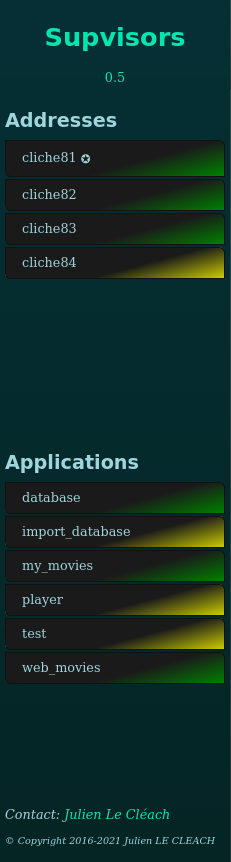
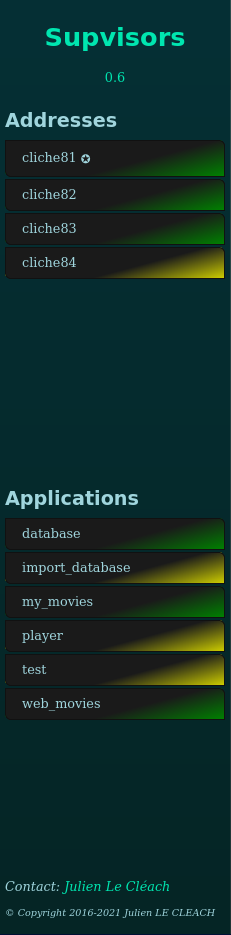
update documentation

diff --git a/setup.py b/setup.py
@@ -37,7 +37,7 @@ testing_extras = ['pytest >= 2.5.2', 'pytest-cov']
 here = os.path.abspath(os.path.dirname(__file__))
 try:
     README = open(os.path.join(here, 'README.md')).read()
-    CHANGES = open(os.path.join(here, 'CHANGES.txt')).read()
+    CHANGES = open(os.path.join(here, 'CHANGES.rst')).read()
 except:
     README = """Supvisors is a control system for distributed applications over multiple Supervisor instances. """
     CHANGES = ''

diff --git a/docs/conf.py b/docs/conf.py
@@ -100,4 +100,3 @@ if not on_rtd:  # only import and set the theme if we're building docs locally
 # relative to this directory. They are copied after the builtin static files,
 # so a file named "default.css" will overwrite the builtin "default.css".
 html_static_path = []
-

diff --git a/CHANGES.rst b/CHANGES.rst
@@ -1,0 +1,149 @@
+Change Log
+==========
+
+0.6 (2021-08-01)
+----------------
+
+* Improve **Supvisors** stability when dealing with remote programs undefined locally.
+
+* Add expand / shrink actions to applications to the ``ProcAddressView`` of the Web UI.
+
+* Upon authorization of a new node in **Supvisors**, back to ``DEPLOYMENT`` state to repair applications.
+
+* Add RPC ``change_log_level`` to dynamically change the **Supvisors** log level.
+
+* Application state is evaluated only against the starting sequence of its processes.
+
+* Fixed blocking when *Master* is stopped while in ``DEPLOYMENT`` state.
+
+* Fixed issue with applications that would not fully stop when using the ``STOP_APPLICATION`` starting failure strategy.
+
+* Fixed issue related to `Issue #85 <https://github.com/julien6387/supvisors/issues/85>`_.
+  An exception was raised when the program ``procnum`` was greater than the list of applicable nodes.
+
+* Fixed `Issue #91 <https://github.com/julien6387/supvisors/issues/91>`_.
+  Fix CSS style on the process tables in HTML.
+
+* Fixed `Issue #90 <https://github.com/julien6387/supvisors/issues/90>`_.
+  The **Supvisors** *Master* node drives the transition to ``OPERATION``.
+
+* In the Web UI, set the process state color to ``FATAL`` when the process has exited unexpectedly.
+
+* Change the default expected loading to ``0`` in the program rules.
+
+* Python ``Enum`` used for enumerations (not available in Python 2.7).
+
+* Remove ``supvisors_shortcuts`` from source code to get rid of IDE warnings.
+
+* All unit tests updated from ``unittest`` to ``pytest``.
+
+* Include this Change Log to documentation.
+
+* Documentation updated.
+
+
+0.5 (2021-03-01)
+----------------
+
+* New option ``force_synchro_if`` to force the end of the synchronization phase when a subset of nodes are active.
+
+* New starting strategy ``LOCAL`` added to command the starting of an application on the local node only.
+
+* Fixed `Issue #87 <https://github.com/julien6387/supvisors/issues/87>`_.
+  Under particular circumstances, **Supvisors** could have multiple *Master* nodes.
+
+* Fixed `Issue #86 <https://github.com/julien6387/supvisors/issues/86>`_.
+  The starting and stopping sequences may fail and block when a sub-sequence includes only failed programs.
+
+* Fixed `Issue #85 <https://github.com/julien6387/supvisors/issues/85>`_.
+  When using ``#`` in the ``address_list`` program rule of the **Supvisors** rules file, a subset of nodes can optionally be defined.
+
+* Fixed `Issue #84 <https://github.com/julien6387/supvisors/issues/84>`_.
+  In the **Supvisors** rules file, program rules can be defined using both model reference and attributes.
+
+* The Web UI uses the default starting strategy of the configuration file.
+
+* The layout of Web UI statistics sections has been rearranged.
+
+* Fixed CSS style missing for ``CHECKING`` node state in tables.
+
+* Star added to the node box of the *Master* instance on the main page.
+
+* Type annotations are added progressively in source code.
+
+* Start switching from ``unittest`` to ``pytest``.
+
+* Logs (especially ``debug`` and ``trace``) updated to remove printed objects.
+
+* Documentation updated.
+
+
+0.4 (2021-02-14)
+----------------
+
+* Auto-refresh button added to all pages.
+
+* Web UI Main page reworked by adding a subdivision of application in node boxes.
+
+* Fixed exception when exiting using ``Ctrl+c`` from shell.
+
+* Fixed exception when rules files is not provided.
+
+* Documentation updated.
+
+
+0.3 (2020-12-29)
+----------------
+
+* Fixed `Issue #81 <https://github.com/julien6387/supvisors/issues/81>`_.
+  When **Supvisors** logfile is set to ``AUTO``, **Supvisors** uses the same logger as **Supervisor**.
+
+* Fixed `Issue #79 <https://github.com/julien6387/supvisors/issues/79>`_.
+  When ``FATAL`` or ``UNKNOWN`` Process state is forced by **Supvisors**, ``spawnerr`` was missing in the listener payload.
+
+* Useless folder ``rsc_ref`` deleted.
+
+* ``design`` folder moved to a dedicated *GitHub* repository.
+
+* 100% coverage reached in unit tests.
+
+* Documentation updated.
+
+
+0.2 (2020-12-14)
+----------------
+
+* Migration to **Python 3.6**.
+  Versions of dependencies are refreshed, more particularly **Supervisor 4.2.1**.
+
+* CSS of Web UI updated / simplified.
+
+* New action added to Host Process page of WebUI: ``tail -f stderr`` button.
+
+* New information actions added to Application page of WebUI:
+
+    * ``description`` field.
+    * ``clear logs``, ``tail -f stdout``, ``tail -f stderr`` buttons.
+
+* Fixed `Issue #75 <https://github.com/julien6387/supvisors/issues/75>`_.
+  **Supvisors** takes into account the ``username`` and the ``password`` of ``inet_http_server`` in the ``supervisord`` section.
+
+* Fixed `Issue #17 <https://github.com/julien6387/supvisors/issues/17>`_.
+  The user selections on the web UI are passed to the URL.
+
+* Fixed `Issue #72 <https://github.com/julien6387/supvisors/issues/72>`_.
+  The extra arguments are shared between all **Supvisors** instances.
+
+* ``README.rst`` replaced with ``README.md``.
+
+* Coverage improved in tests.
+
+* Docs target added to Travis-CI.
+
+* Documentation formatting issues fixed.
+
+
+0.1 (2017-08-11)
+----------------
+
+Initial release.

diff --git a/docs/index.rst b/docs/index.rst
@@ -5,7 +5,7 @@
 
 .. toctree::
     :maxdepth: 3
-    :caption: Contents:
+    :caption: Contents
 
     introduction.rst
     configuration.rst
@@ -14,10 +14,15 @@
     supervisorctl.rst
     event_interface.rst
     special.rst
-    
+
+.. toctree::
+    :maxdepth: 2
+    :caption: Release History
+
+    CHANGES.rst
 
 Indices and tables
-==================
+------------------
 
 * :ref:`genindex`
 * :ref:`modindex`

diff --git a/docs/CHANGES.rst b/docs/CHANGES.rst
@@ -1,0 +1,1 @@
+../CHANGES.rst
